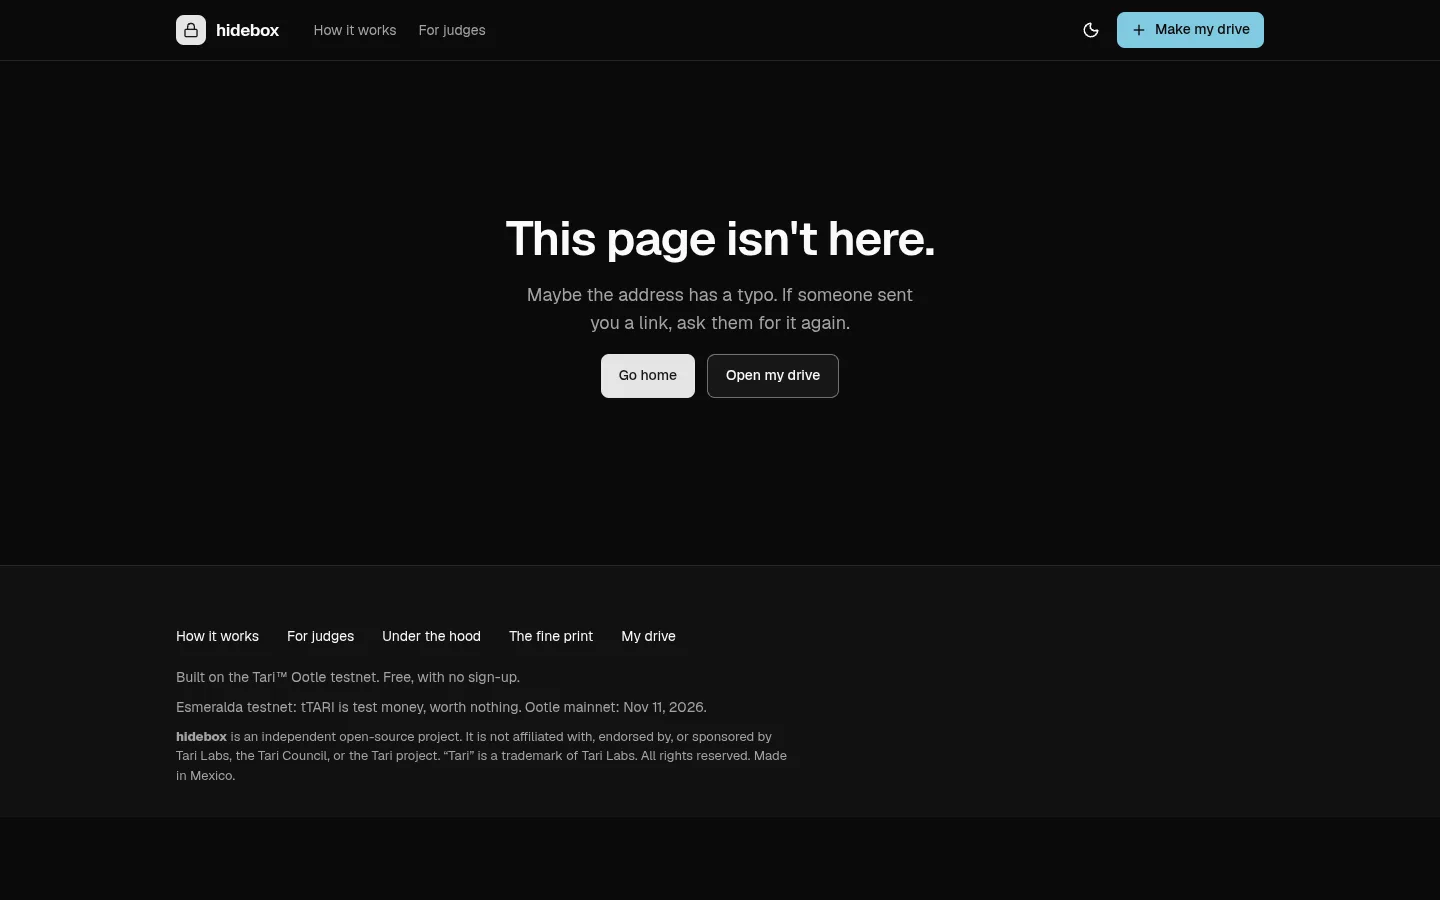
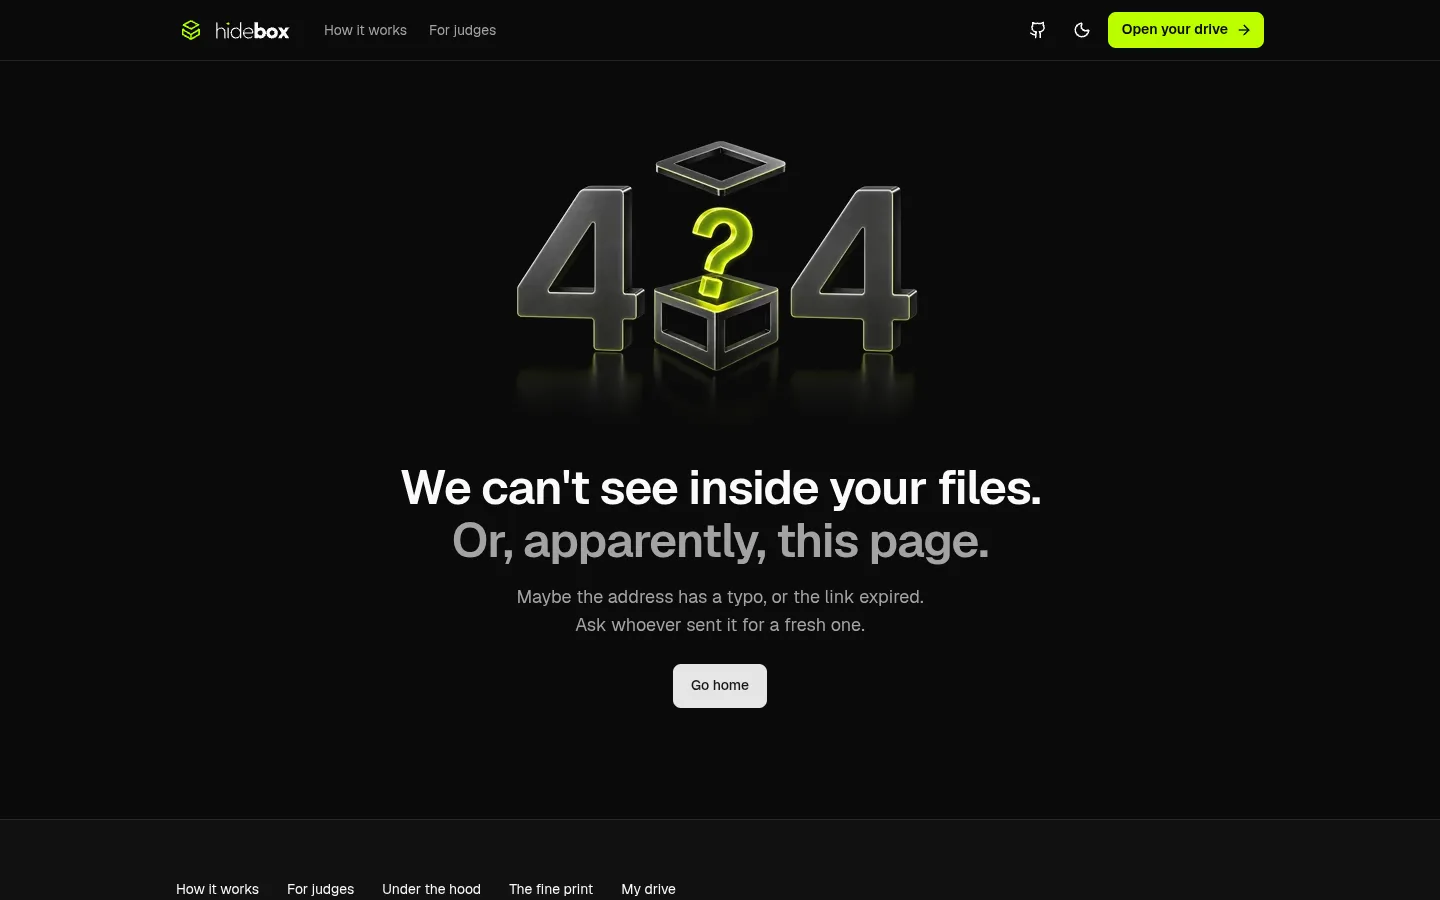
The curated 404 screenshots show the new page; the site README lists egg.js and media/404

diff --git a/web/site/README.md b/web/site/README.md
@@ -43,10 +43,11 @@ the icons, the manifest, robots.txt, the sitemap and noindex on the private rout
 | `../shared/partials/` | `header`, `footer`, `status-line`, each also `-es` |
 | `../shared/fonts/` | Mutis Script Regular and Bold, Mutis Script Code, `OFL.txt`, `NOTICE` |
 | `pages/` | `index how made judges fine-print 404`, `v2` (the home with the product loops at `/v2`: noindex, linked from nowhere; [docs/review/home-v2.md](../../docs/review/home-v2.md)). `/v3` (`/v2` with stills, [docs/review/home-v3.md](../../docs/review/home-v3.md)) became `index` and answers 301 to `/` ([docs/review/promote-v3.md](../../docs/review/promote-v3.md)) |
-| `js/` | `site.js` (every page: the mainnet phase, live numbers and copy variants, the header's button, drive detection; on the home, /how and /judges it loads `motion.js` after the load event, A-06h; the home has no WebGL field since the v3 design), `stats.js` (numbers from `/config` and `/stats`), `made.js` with `canary.js` (then `reveal.js` on a click; it also marks the part being read in /made's contents and breadcrumb, and opens the disclosure a link points into), `evidence.js` and `noise.js`; `abuse.js`, `judges.js`, `status.js`; `clips.js` (`/v2` only: its loops, asked for as they come near, playing only on screen); `stills.js` (`/how` only: its stills replay what they show, from `site.js` after the load event, with motion allowed) |
+| `js/` | `site.js` (every page: the mainnet phase, live numbers and copy variants, the header's button, drive detection; on the home, /how and /judges it loads `motion.js` after the load event, A-06h; the home has no WebGL field since the v3 design), `stats.js` (numbers from `/config` and `/stats`), `made.js` with `canary.js` (then `reveal.js` on a click; it also marks the part being read in /made's contents and breadcrumb, and opens the disclosure a link points into), `evidence.js` and `noise.js`; `abuse.js`, `judges.js`, `status.js`; `clips.js` (`/v2` only: its loops, asked for as they come near, playing only on screen); `stills.js` (`/how` only: its stills replay what they show, from `site.js` after the load event, with motion allowed); `egg.js` (the 404 page only: a note in the console, from `site.js`; [docs/review/site-404.md](../../docs/review/site-404.md)) |
 | `css/` | `site.css` (every page), `home.css` (`/` only, which also links the app's `widget.css`), `pages.css` (every other page), `v2.css` (`/v2` and the home, over `home.css`), `v3.css` (the home only, over `v2.css`), on `../shared/tokens.css` and `base.css` |
 | `media/motion/` | `/v2`'s four loops, each a VP9 WebM with alpha, an H.264 MP4 on black (WebKit's) and its RGBA first frame as the poster. Committed like every other served file, so the build's manifest lists them and `tools/verify-deploy.py` checks their bytes; the pipeline has no other way to serve static files (`/srv/mutis/status` holds only the timers' JSON). Budget V-01 in `tests/static_checks.py` and `browser_checks.py` |
 | `media/v3/` | The home's four stills, first shown at `/v3` (the hero's, which the closing shows again, What's different's, Who sees what's and Tari's), each an AVIF and a WebP at three widths for `srcset`, made with ffmpeg on the server from the owner's PNGs (not committed). Budget V-02 in `tests/static_checks.py` and `browser_checks.py` (`check_home_stills`) |
+| `media/404/` | The 404 page's art (the open box as the zero of 404), an AVIF and a WebP at 480, 720 and 960 px for `srcset`, made with ffmpeg on the server like the home's stills, from the owner's PNG (not committed). Its budget and checks: `check_not_found` in `tests/static_checks.py` and `browser_checks.py` ([docs/review/site-404.md](../../docs/review/site-404.md)) |
 | `static/` | `robots.txt`, `llms.txt`, `llms-full.txt`, `.well-known/security.txt`, `manifest.webmanifest`, `favicon.svg` (the open box) and `favicon-32.png`, `favicon.ico` (16, 32 and 48 px), the app icons (`icon-192.png`, `icon-512.png`, `icon-maskable-512.png`, `apple-touch-icon.png`), `og.png` (the home's first screen with its still), `og-s.png` |
 | `og/` | HTML sources of the OG cards; `icon.svg` and `icon-maskable.svg`, the full-bleed app icons (not served) |
 | `tools/` | `subset-fonts.sh`, `subset-geist.sh`, `rename-font.py`, `render-images.py`, `llms_full.py`, `variants.py`, `cdp.py` |
